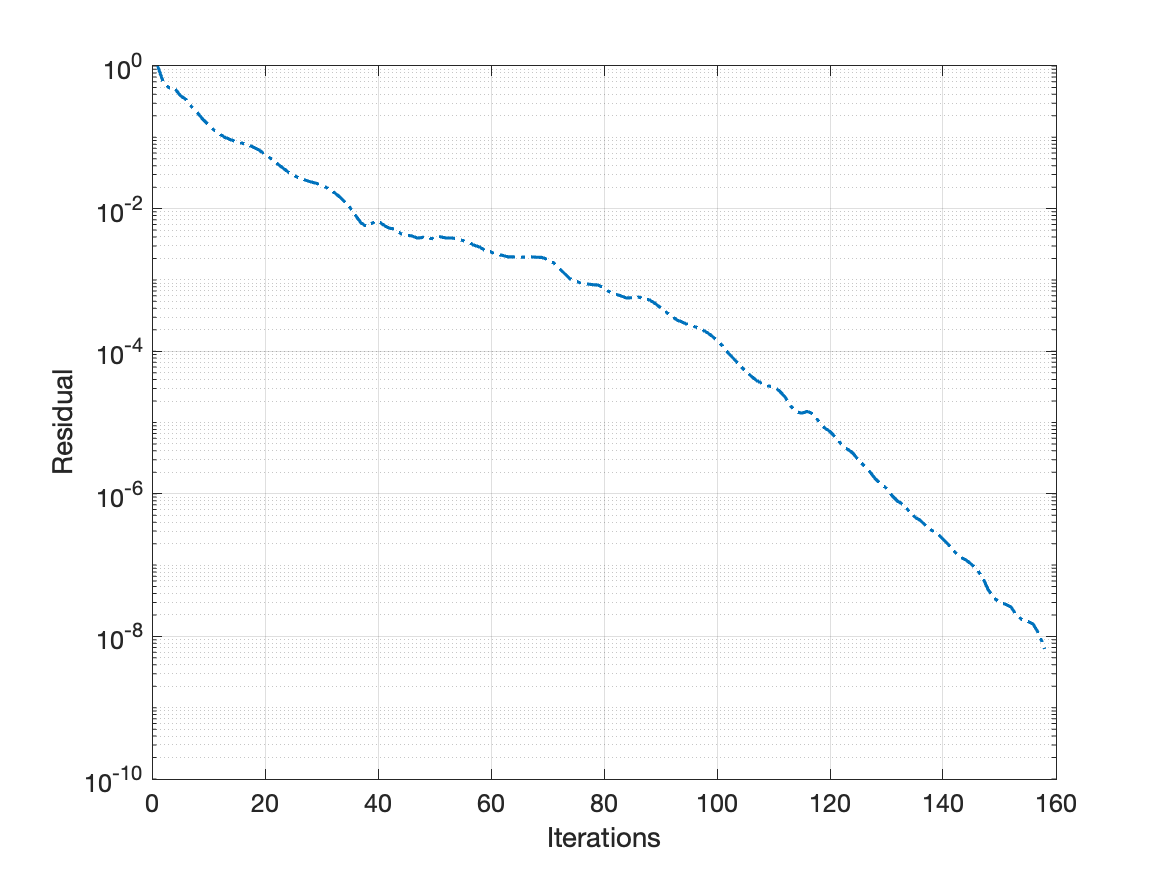
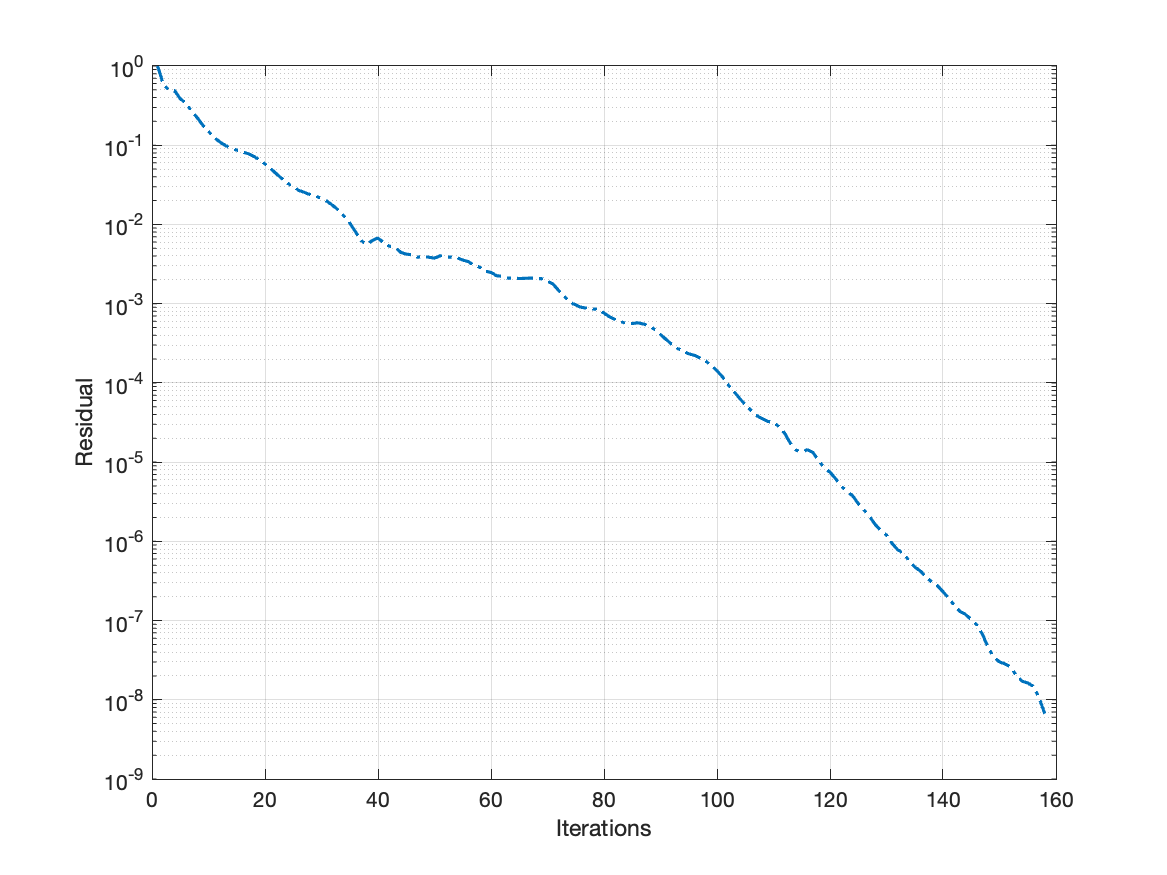
Fix ex3a.m

diff --git a/ex3a.m b/ex3a.m
@@ -1,7 +1,19 @@
+
+
+m = 50;
+u = @(x,y) sin(4*pi*(x + y)) + cos(4*pi*x*y);
+
+f = @(x,y) -16*(2*sin(4*pi*(x + y)) + cos(4*pi*x*y)*(x^2 + y^2))*pi^2;
+
+% g = @(x,y) x^2 + y^2;
+
+g = @(x,y) sin(4*pi*(x + y)) + cos(4*pi*x*y);
+
 m = 50;
 A=poisson5(m);
 [Xint,Yint,b] = constructRhs5(m,f,g);
 [X,FLAG,RELRES,ITER,RESVEC] = pcg(-A, -b, 1e-8, 1000);
+lnw = 1.5;
 
 fig = figure;
 semilogy(RESVEC/norm(b),'-.',"LineWidth",lnw)
@@ -10,3 +22,4 @@ grid on
 xlabel("Iterations")
 ylabel("Residual")
 saveas(fig, "Figures/ex3a.png")
+
